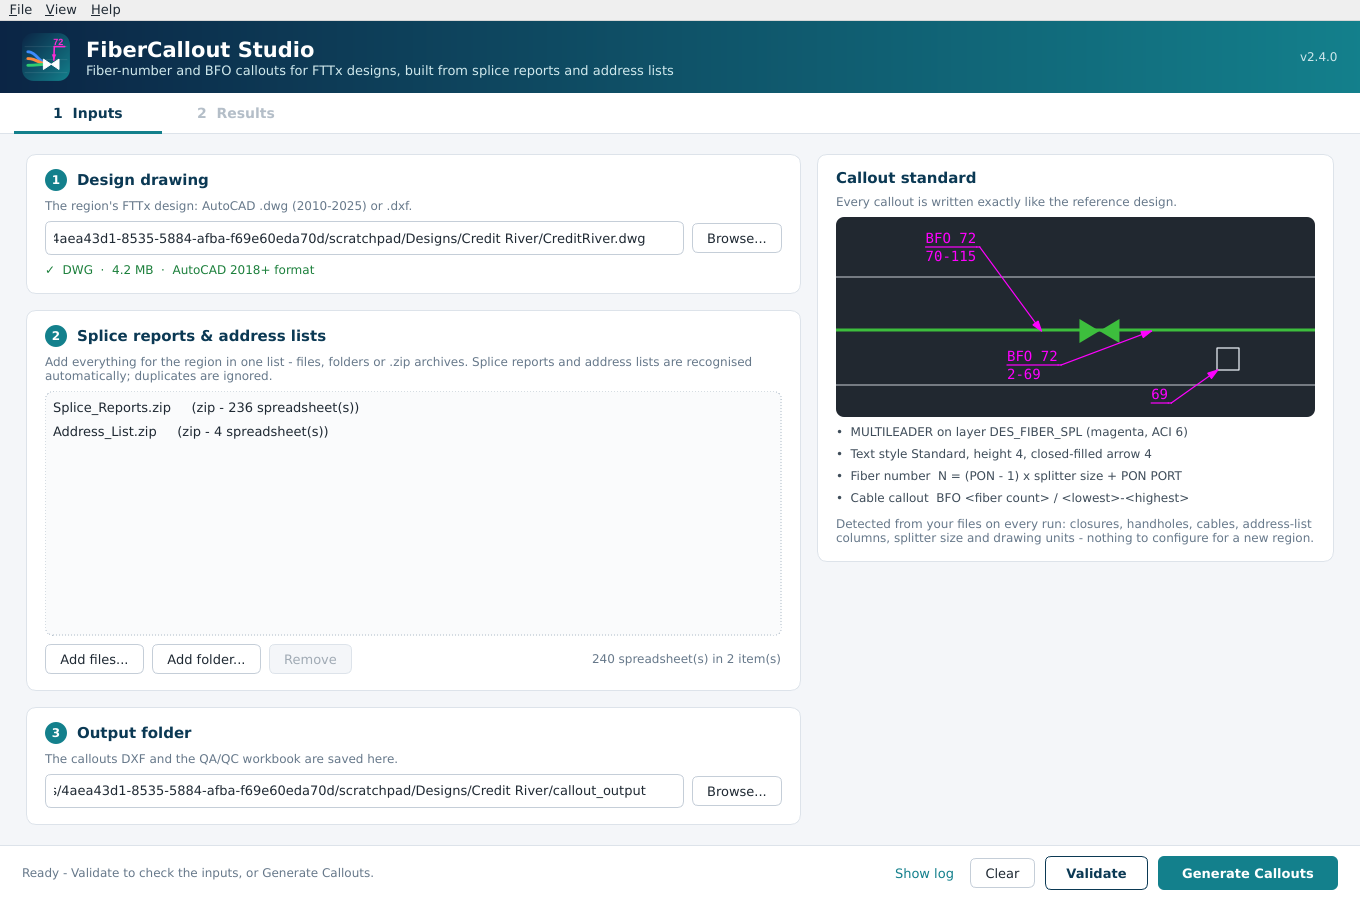
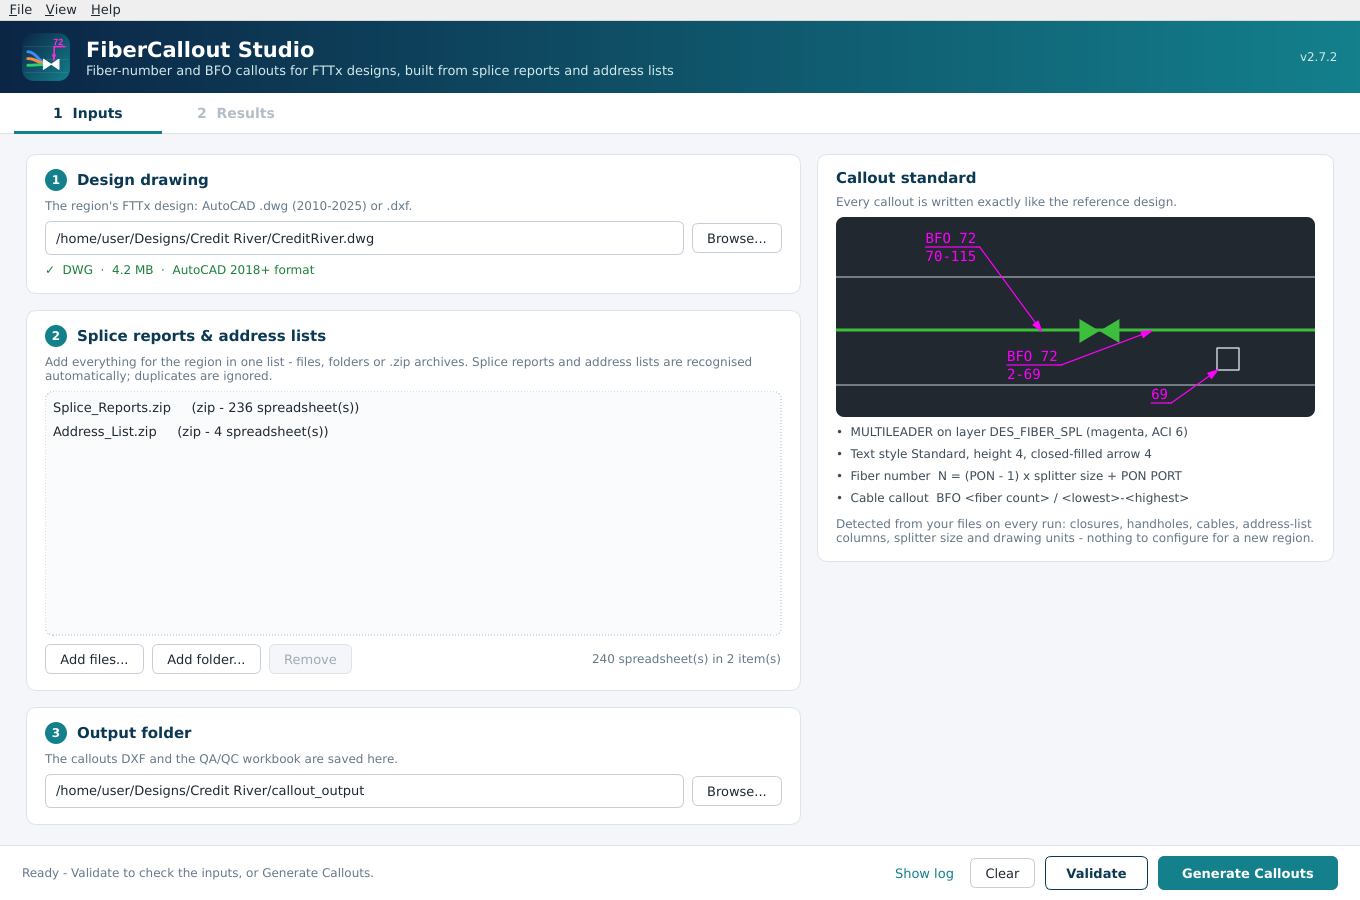
FiberCallout Studio 2.7.2: release fixes
- Refuse an empty drawing (0 bytes, or no blocks and no linework) with a
  clear message instead of listing every closure as missing.
- Report a damaged or Excel-locked spreadsheet once, with a hint, instead
  of once per loader.
- Show the engine's plain message in error dialogs; explain read-only or
  locked outputs.
- Callouts tab: placed callouts and, separately, how many were not placed.
- README screenshots updated to the current version.
- Credit River unchanged: 707 + 482 callouts, 1172/1184 existing identical.

Claude-Session: https://claude.ai/code/session_01DC6P9hccipyKbwvkb3dxBm

Changed region(s): [[0.0309, 0.8711, 0.4632, 0.9022], [0.0309, 0.2489, 0.4632, 0.28]]

diff --git a/tools/fiber-callout-automation/fcs/engine.py b/tools/fiber-callout-automation/fcs/engine.py
@@ -211,6 +211,12 @@ class IssueLog:
     def add(self, severity: str, category: str, obj: Any, message: str) -> None:
         self.items.append(Issue(severity, category, str(obj), message))
 
+    def unreadable(self, path: Path, exc: Exception) -> None:
+        """One error per unreadable file, although both the splice-report and the address-list loaders try it."""
+        if any(i.severity == "ERROR" and i.obj == path.name and i.message.startswith("Unreadable") for i in self.items):
+            return
+        self.add("ERROR", "Input", path.name, f"Unreadable: {exc} - is the file damaged, or open and locked in Excel?")
+
     def count(self, severity: str) -> int:
         return sum(1 for i in self.items if i.severity == severity)
 
@@ -786,7 +792,7 @@ class AddressBook:
                         if x and x not in headers:
                             headers.append(x)
             except Exception as exc:  # noqa: BLE001 - every unreadable file is reported
-                issues.add("ERROR", "Address List", f.name, f"Unreadable: {exc}")
+                issues.unreadable(f, exc)
         return headers
 
     def load(self, files: List[Path], cmap: ColumnMap, ports_per_pon: int, reports: List[SpliceReport],
@@ -797,7 +803,7 @@ class AddressBook:
             try:
                 tables = read_tables(f)
             except Exception as exc:  # noqa: BLE001
-                issues.add("ERROR", "Address List", f.name, f"Unreadable: {exc}")
+                issues.unreadable(f, exc)
                 continue
             n_before = len(raw)
             sheet_problems: List[Tuple[str, str]] = []
@@ -1233,7 +1239,7 @@ def load_splice_reports(files: List[Path], issues: IssueLog, rep: Reporter, quie
         try:
             tables = read_tables(f)
         except Exception as exc:  # noqa: BLE001
-            issues.add("ERROR", "Splice Report", f.name, f"Unreadable: {exc}")
+            issues.unreadable(f, exc)
             continue
         parsed = False
         for sheet, rows in tables:
@@ -1611,6 +1617,15 @@ def open_source(cfg: RunConfig, rep: Reporter) -> NetworkSource:
     p = Path(cfg.drawing_path)
     if not p.exists():
         raise FileNotFoundError(f"Drawing not found: {cfg.drawing_path}")
+    src = _open_source(p, rep)
+    if not src.inserts and not src.lines:
+        raise RuntimeError(f"The drawing {p.name} is empty (no blocks or linework). Select the region's design drawing.")
+    return src
+
+
+def _open_source(p: Path, rep: Reporter) -> NetworkSource:
+    if p.stat().st_size == 0:
+        raise RuntimeError(f"The drawing {p.name} is an empty file (0 bytes). Select the region's design drawing.")
     if p.suffix.lower() == ".dwg":
         try:
             return source_from_native(str(p), rep)

diff --git a/tools/fiber-callout-automation/tests/run_tests.py b/tools/fiber-callout-automation/tests/run_tests.py
@@ -363,9 +363,33 @@ def test_output_folder_error() -> None:
             check("unwritable output folder reported", "Cannot write to the output folder" in str(exc), str(exc))
 
 
+def test_bad_inputs() -> None:
+    with tempfile.TemporaryDirectory() as tmp:
+        log = E.IssueLog()
+        bad = Path(tmp) / "broken.xlsx"
+        bad.write_bytes(b"PK\x03\x04garbage")
+        E.load_splice_reports([bad], log, E.Reporter(lambda m, l: None))
+        E.AddressBook.scan_headers([bad], log)
+        n = sum(1 for i in log.items if i.severity == "ERROR" and i.obj == "broken.xlsx")
+        check("unreadable file reported once, not per loader", n == 1, str(log.items))
+        for name, data in (("empty.dxf", b""), ("blank.dxf", None)):
+            d = Path(tmp) / name
+            if data is None:
+                import ezdxf
+                ezdxf.new().saveas(d)
+            else:
+                d.write_bytes(data)
+            try:
+                E.open_source(E.RunConfig(drawing_path=str(d)), E.Reporter(lambda m, l: None))
+                check(f"{name}: empty drawing refused", False, "no error raised")
+            except RuntimeError as exc:
+                check(f"{name}: empty drawing refused", "empty" in str(exc), str(exc))
+
+
 def main() -> int:
     for fn in (test_numbering_helpers, test_callout_text_rules, test_address_rules, test_header_mapping,
-               test_splitter_detection, test_olm_splitters, test_per_olm_numbering, test_report_parsers, test_decorated_segment_ends, test_junction_rule, test_drawing_cable_labels, test_name_mismatch_and_differences, test_text_tables, test_units, test_input_signature, test_output_folder_error):
+               test_splitter_detection, test_olm_splitters, test_per_olm_numbering, test_report_parsers, test_decorated_segment_ends, test_junction_rule, test_drawing_cable_labels, test_name_mismatch_and_differences, test_text_tables, test_units, test_input_signature, test_output_folder_error,
+               test_bad_inputs):
         try:
             fn()
         except Exception as exc:  # noqa: BLE001

diff --git a/tools/fiber-callout-automation/fcs/gui.py b/tools/fiber-callout-automation/fcs/gui.py
@@ -170,7 +170,14 @@ class Worker(QObject):
             self.failed.emit(self.task, "Cancelled by user")
         except Exception as exc:  # noqa: BLE001 - every failure is reported in the GUI
             self.log.emit(traceback.format_exc(), "DEBUG")
-            self.failed.emit(self.task, f"{type(exc).__name__}: {exc}")
+            if isinstance(exc, PermissionError):
+                msg = (f"{exc}\n\nThe file or folder is read-only or open in another program (Excel, AutoCAD). "
+                       "Close it or choose another output folder, then try again.")
+            elif isinstance(exc, (RuntimeError, FileNotFoundError)):
+                msg = str(exc)   # the engine's own messages are written for the designer
+            else:
+                msg = f"{type(exc).__name__}: {exc}"
+            self.failed.emit(self.task, msg)
 
 
 # =============================================================================
@@ -1222,7 +1229,8 @@ class MainWindow(QMainWindow):
         self.tbl_issues.fill(issues, lambda r: {"ERROR": "#FDECEA", "WARNING": "#FFF6E0"}.get(r["Severity"]))
         self.tbl_issues.set_filter("Errors and warnings" if n_e + n_w else "All, including info")
         self.tabs.setTabText(0, f"Issues ({n_e + n_w})" if n_e + n_w else "Issues")
-        self.tabs.setTabText(1, f"Callouts ({len(rows)})")
+        failed = sum(1 for r in rows if r["Status"] == "FAILED")
+        self.tabs.setTabText(1, f"Callouts ({len(rows) - failed}" + (f", {failed} not placed)" if failed else ")"))
         self.tbl_network.fill(res.network)
         self.tbl_closures.fill(res.closures, lambda r: {"Cable change": "#E8F3F5", "Junction": None}.get(r.get("Role")))
         self.tbl_existing.fill(res.existing_rows, lambda r: "#E8F5E9" if str(r.get("Result", "")).startswith("MATCH")

diff --git a/tools/fiber-callout-automation/fcs/__init__.py b/tools/fiber-callout-automation/fcs/__init__.py
@@ -1,4 +1,4 @@
 """FiberCallout Studio - DES_FIBER_SPL fiber-number callout automation for FTTx OSP designs."""
 APP_NAME = "FiberCallout Studio"
-APP_VERSION = "2.7.1"
+APP_VERSION = "2.7.2"
 APP_ORG = "FTTx Design Automation"

diff --git a/tools/fiber-callout-automation/packaging/RELEASE_NOTES.md b/tools/fiber-callout-automation/packaging/RELEASE_NOTES.md
@@ -1,4 +1,4 @@
-## FiberCallout Studio 2.7.1 (Windows x64)
+## FiberCallout Studio 2.7.2 (Windows x64)
 
 Single-file desktop app that generates the magenta **DES_FIBER_SPL** fiber-number and BFO callouts of an FTTx design
 from its splice reports and address lists.
@@ -7,6 +7,13 @@ from its splice reports and address lists.
 else. The exe isn't code-signed, so if Windows SmartScreen appears, click *More info -> Run anyway*.
 
 **Check the installation:** *Help -> Run self-test* (or `FiberCalloutStudio.exe --selftest`).
+
+What's new in 2.7.2 (release fixes)
+- An empty drawing (0 bytes, or no blocks and no linework) is refused with a clear message, instead of a long list of
+  missing closures.
+- A damaged or Excel-locked spreadsheet is reported once, with a hint, instead of once per loader.
+- Error dialogs show the plain message (no Python error names); a read-only or locked output tells you what to do.
+- The Callouts tab shows the placed callouts and, separately, how many could not be placed.
 
 What's new in 2.7.1
 - MDU cables: a cable larger than 12F (e.g. a 24F to an MDU) is always treated as a cable, even when the splice
